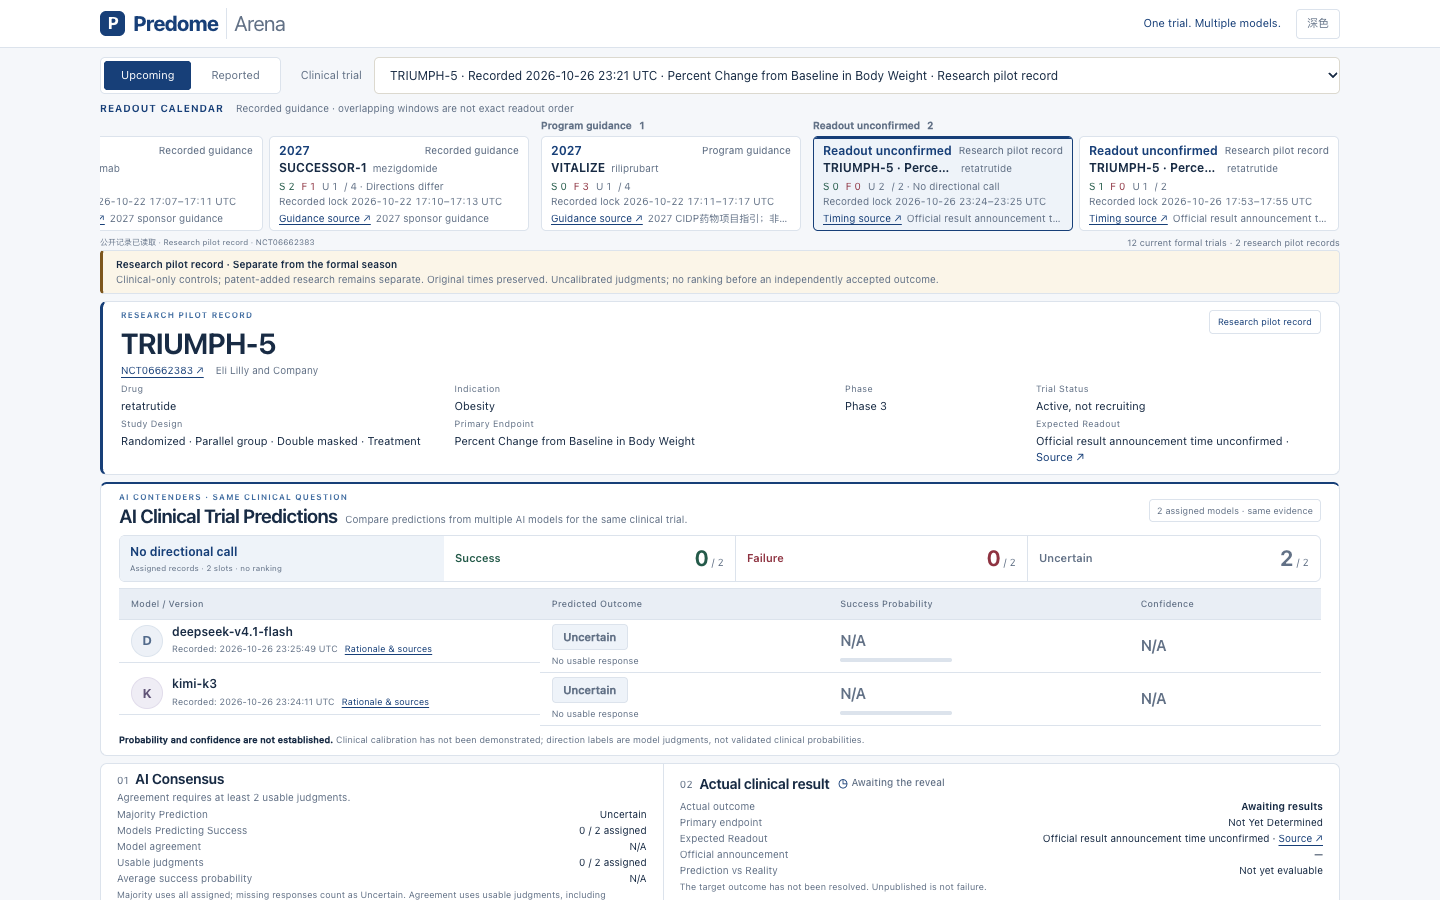
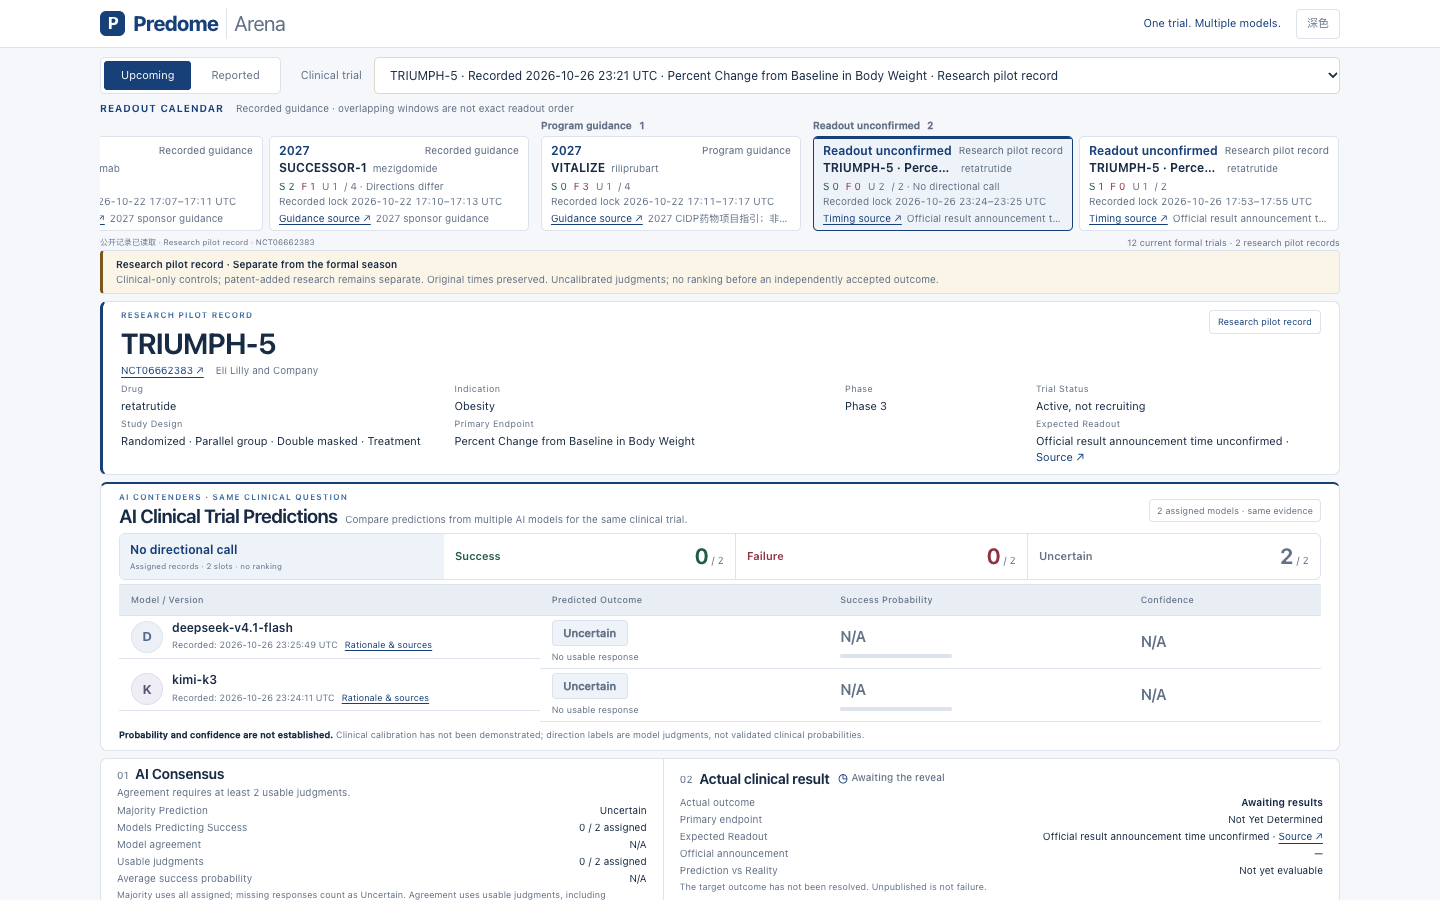
fix(arena): preserve compact layout across browser fonts

diff --git a/apps/predome/static/arena-public.css b/apps/predome/static/arena-public.css
@@ -272,5 +272,6 @@ html[data-theme=dark] .public-outcome-failure{background:#422e3b;border-color:#6
 .public-readout-update strong{color:var(--public-ink);font-weight:600}
 .public-readout-update a{text-decoration:underline;text-underline-offset:2px}
 @media(max-width:700px){.public-readout-update{font-size:11px;line-height:1.6}}
-/* Keep the returned-judgment denominator visible without reducing text size. */
-@media(min-width:701px){.public-consensus{padding-top:6px;padding-bottom:6px}.public-consensus h2{margin-bottom:2px}.public-agreement-bar{height:4px;margin-bottom:1px}.public-agreement-empty{margin-bottom:1px}}
+/* Keep the returned-judgment denominator and cross-platform font-metric slack
+   visible by reducing desktop whitespace only; mobile and text sizes stay intact. */
+@media(min-width:701px){.public-model-heading,.arena-faceoff{margin-bottom:4px}.public-table td{padding-top:4px;padding-bottom:4px}.public-calibration-note{margin-top:6px}.public-summary-row{margin:3px 0}.public-consensus{padding-top:6px;padding-bottom:6px}.public-consensus h2{margin-bottom:2px}.public-agreement-bar{height:4px;margin-bottom:1px}.public-agreement-empty{margin-bottom:1px}}

diff --git a/apps/predome/docs/PATENT_PAIR_ASSAY_V2.md b/apps/predome/docs/PATENT_PAIR_ASSAY_V2.md
@@ -61,7 +61,9 @@ TRIUMPH-5 / [NCT06662383](https://clinicaltrials.gov/study/NCT06662383)比较 re
 
 修复后的实际临时服务通过9张桌面／手机截图验收、4份来源资产哈希检查和2份时间凭证下载检查，console/page errors及意外请求均为0。旧144条公开run记录、47个旧目标的临床事实和331个宿主事件前缀保持原样；旧目标的派生一致率按新合同计算。验收使用合成登录账号，不代表Jake或真人科学审核。
 
-本地 canonical 检查 `python3.11 scripts/check.py --suite full --browser` 首次通过2,047项Python测试与9套离线浏览器检查；检查期间224份受检代码哈希未变。随后GitHub CI在UTC午夜暴露一个日期测试的收集／执行时差，修正为同一固定测试时钟，并增加当天可接受的真实写入路径检查；生产校验保持原样。修正后再跑 `--suite full`，2,048项全部通过。界面资产未改动，沿用上述9套浏览器与真实HTTP验收。
+本地 canonical 检查 `python3.11 scripts/check.py --suite full --browser` 首次通过2,047项Python测试与9套离线浏览器检查；检查期间224份受检代码哈希未变。随后GitHub CI在UTC午夜暴露一个日期测试的收集／执行时差，修正为同一固定测试时钟，并增加当天可接受的真实写入路径检查；生产校验保持原样。修正后再跑 `--suite full`，2,048项全部通过。
+
+Linux浏览器还发现日程更新样例比1,000像素紧凑目标高约2像素。本轮只压缩桌面表格及摘要的留白，字号、数据、手机规则和验收阈值不变。最终CSS再次通过 `--suite static --browser` 的全部9套检查，并刷新真实HTTP截图；249份受检代码／测试文件在检查期间保持不变。
 
 另一次独立只读复核抽取实际生产JS消费函数，接受7,381个有效合同组合、拒绝16,668个错误边界组合，未发现阻断问题。这些结果验证工程行为，不证明临床预测有效。
 

diff --git a/apps/predome/docs/AGENT_WORKFLOW.md b/apps/predome/docs/AGENT_WORKFLOW.md
@@ -109,6 +109,10 @@ uv run pytest -q tests
 
 真实CI在23:59 UTC收集“次日不可接受”的日期参数，到00:00 UTC执行时已变为当天，导致原本合法的生产校验被测试误判。日期边界测试现共用固定UTC时刻，并只在所属validator的测试范围替换时钟；同时通过实际结果写入路径检查当天可接受、次日拒绝且账本不变。其余测试继续使用原时钟，不延后两天或修改生产校验来规避失败。此修正验证工程日期边界，不新增结果裁定或临床预测能力。
 
+### 跨平台视觉边界
+
+公开页的同一日程更新样例在本机通过、Linux浏览器高出紧凑目标约2像素。修复只减少桌面留白，为字体度量差异保留余量；字号、信息和测试阈值不变。最终静态资产重跑全部9套受控浏览器检查，真实HTTP截图另行更新；测试截图和线上部署继续分开记录。
+
 ## 未迁移的设置
 
 OpenCode 的 Bun、TypeScript、Effect、Drizzle、TUI 故事、后台会话服务和 `dev` 分支设置不适用于本项目。这里也没有采用其禁止所有根目录测试的约定、强制动画 SVG，或为了风格统一全面改写 Python 变量与控制流。开发流程的变化不代表新增临床预测、模型训练、独立审核或服务器部署已经完成。

diff --git a/apps/predome/docs/images/triumph5-assay-pair-20261027/README.md b/apps/predome/docs/images/triumph5-assay-pair-20261027/README.md
@@ -4,6 +4,8 @@
 
 实际 HTTP 页面和 API 响应没有 fixture 替换，使用原始 CSP 与实际 shipped 静态资产，没有注入样式或改写预测。截图由 `verification/patent-assay-pair-20261027/http-acceptance-v2/capture.cjs` 在主 agent 将 v2 sealed bundle 导入隔离 runtime-copy 后取得。全部九张图片已读屏检查。
 
+本轮因 Linux 字体度量下桌面布局超出既有最小滚动范围，再次压缩了桌面模型表和共识区域的留白，保留字号、字段和手机布局。随后以实际 HTTP GET 重拍九图；公开桌面图已重新读屏，其余八图与上一轮已读屏图片字节一致。前一轮图片和 receipt 保留在 ignored 的 `before-desktop-whitespace-fix` 目录。
+
 ## 真实结果与展示范围
 
 四个 first-attempt 槽完整保留：Kimi clinical、Kimi patent 均为 invalid_json 失败；Flash clinical 为 provider_http_error 失败；Flash patent 有原始未校准研究值 0.71。
